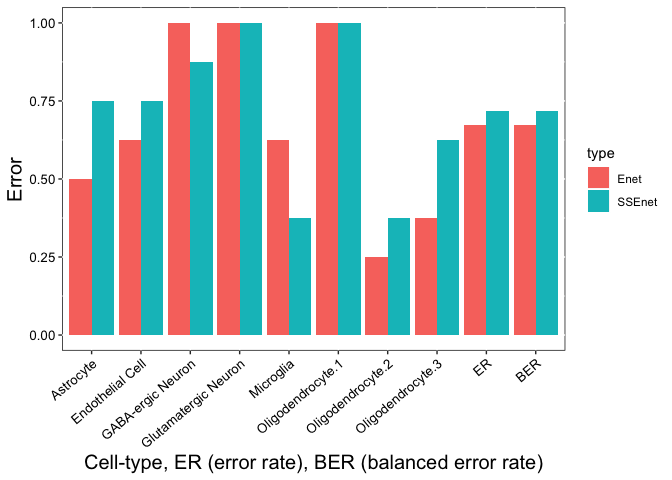
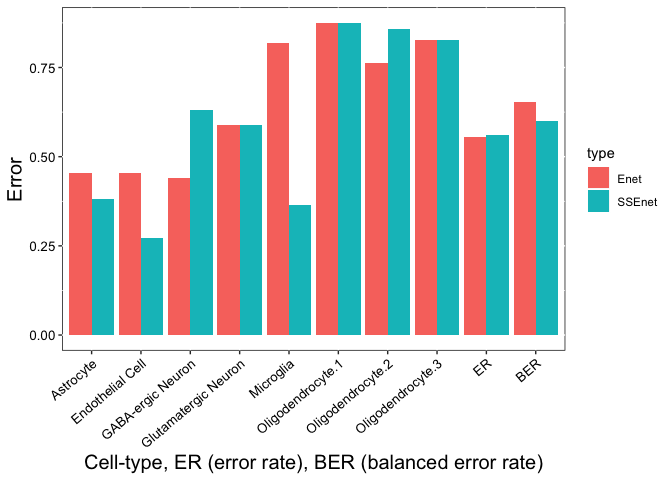
update README

diff --git a/README.md b/README.md
@@ -82,10 +82,20 @@ points(coord, col = mixOmics::color.mixo(as.numeric(seqfishLabels$V3)), pch = 19
 
 ``` r
 indices1 <- lapply(levels(scrnaseqLabels$V1), function(i){
-  which(as.character(scrnaseqLabels$V1) == i)[1:6]
+  comp <- which(as.character(scrnaseqLabels$V1) == i)
+  if(length(comp) > 100){
+    comp[1:100]
+  } else {
+    comp
+  }
 }) %>% unlist()
 indices2 <- lapply(levels(seqfishLabels$V3), function(i){
-  which(as.character(seqfishLabels$V3) == i)[1:8]
+  comp <- which(as.character(seqfishLabels$V3) == i)
+  if(length(comp) > 100){
+    comp[1:100]
+  } else {
+    comp
+  }
 }) %>% unlist()
 
 
@@ -96,18 +106,18 @@ cvEnet$perf
 ```
 
     ## # A tibble: 10 x 3
-    ##    ErrName                Mean     SD
-    ##    <chr>                 <dbl>  <dbl>
-    ##  1 Astrocyte            0      0     
-    ##  2 BER                  0.208  0.0295
-    ##  3 Endothelial Cell     0.25   0.118 
-    ##  4 ER                   0.208  0.0295
-    ##  5 GABA-ergic Neuron    0.25   0.118 
-    ##  6 Glutamatergic Neuron 0      0     
-    ##  7 Microglia            0      0     
-    ##  8 Oligodendrocyte.1    0.5    0     
-    ##  9 Oligodendrocyte.2    0.583  0.354 
-    ## 10 Oligodendrocyte.3    0.0833 0.118
+    ##    ErrName                Mean      SD
+    ##    <chr>                 <dbl>   <dbl>
+    ##  1 Astrocyte            0      0      
+    ##  2 BER                  0.209  0.00758
+    ##  3 Endothelial Cell     0.121  0.0244 
+    ##  4 ER                   0.0957 0.0182 
+    ##  5 GABA-ergic Neuron    0.06   0.0141 
+    ##  6 Glutamatergic Neuron 0.06   0.0566 
+    ##  7 Microglia            0      0      
+    ##  8 Oligodendrocyte.1    0.289  0.112  
+    ##  9 Oligodendrocyte.2    0.917  0.118  
+    ## 10 Oligodendrocyte.3    0.226  0
 
 ## Apply Semi-supervised Enet to scRNAseq+seqFISH data to determine cell-type labels
 
@@ -121,18 +131,18 @@ cvSSEnet$perf
 ```
 
     ## # A tibble: 10 x 3
-    ##    ErrName                Mean     SD
-    ##    <chr>                 <dbl>  <dbl>
-    ##  1 Astrocyte            0.0833 0.118 
-    ##  2 BER                  0.385  0.0147
-    ##  3 Endothelial Cell     0.583  0.118 
-    ##  4 ER                   0.385  0.0147
-    ##  5 GABA-ergic Neuron    0.583  0.118 
-    ##  6 Glutamatergic Neuron 0.25   0.354 
-    ##  7 Microglia            0.167  0.236 
-    ##  8 Oligodendrocyte.1    0.667  0     
-    ##  9 Oligodendrocyte.2    0.667  0     
-    ## 10 Oligodendrocyte.3    0.0833 0.118
+    ##    ErrName                Mean      SD
+    ##    <chr>                 <dbl>   <dbl>
+    ##  1 Astrocyte            0.0465 0.0658 
+    ##  2 BER                  0.203  0.00490
+    ##  3 Endothelial Cell     0.138  0      
+    ##  4 ER                   0.117  0      
+    ##  5 GABA-ergic Neuron    0.135  0.00707
+    ##  6 Glutamatergic Neuron 0.045  0.00707
+    ##  7 Microglia            0.0455 0.0643 
+    ##  8 Oligodendrocyte.1    0.237  0.112  
+    ##  9 Oligodendrocyte.2    0.75   0.118  
+    ## 10 Oligodendrocyte.3    0.226  0.0456
 
 ## Compare supervised and semi-supervised Enet (Enet and SSEnet) predicted seqFISH cell-types labels with those estimated via the multiclass SVM used in the paper.
 
@@ -181,25 +191,25 @@ cvErr %>%
 | ErrName              |      Mean |        SD | method |
 | :------------------- | --------: | --------: | :----- |
 | Astrocyte            | 0.0000000 | 0.0000000 | Enet   |
-| BER                  | 0.2083333 | 0.0294628 | Enet   |
-| Endothelial Cell     | 0.2500000 | 0.1178511 | Enet   |
-| ER                   | 0.2083333 | 0.0294628 | Enet   |
-| GABA-ergic Neuron    | 0.2500000 | 0.1178511 | Enet   |
-| Glutamatergic Neuron | 0.0000000 | 0.0000000 | Enet   |
+| BER                  | 0.2090796 | 0.0075758 | Enet   |
+| Endothelial Cell     | 0.1206897 | 0.0243830 | Enet   |
+| ER                   | 0.0957143 | 0.0181827 | Enet   |
+| GABA-ergic Neuron    | 0.0600000 | 0.0141421 | Enet   |
+| Glutamatergic Neuron | 0.0600000 | 0.0565685 | Enet   |
 | Microglia            | 0.0000000 | 0.0000000 | Enet   |
-| Oligodendrocyte.1    | 0.5000000 | 0.0000000 | Enet   |
-| Oligodendrocyte.2    | 0.5833333 | 0.3535534 | Enet   |
-| Oligodendrocyte.3    | 0.0833333 | 0.1178511 | Enet   |
-| Astrocyte            | 0.0833333 | 0.1178511 | SSEnet |
-| BER                  | 0.3854167 | 0.0147314 | SSEnet |
-| Endothelial Cell     | 0.5833333 | 0.1178511 | SSEnet |
-| ER                   | 0.3854167 | 0.0147314 | SSEnet |
-| GABA-ergic Neuron    | 0.5833333 | 0.1178511 | SSEnet |
-| Glutamatergic Neuron | 0.2500000 | 0.3535534 | SSEnet |
-| Microglia            | 0.1666667 | 0.2357023 | SSEnet |
-| Oligodendrocyte.1    | 0.6666667 | 0.0000000 | SSEnet |
-| Oligodendrocyte.2    | 0.6666667 | 0.0000000 | SSEnet |
-| Oligodendrocyte.3    | 0.0833333 | 0.1178511 | SSEnet |
+| Oligodendrocyte.1    | 0.2894737 | 0.1116484 | Enet   |
+| Oligodendrocyte.2    | 0.9166667 | 0.1178511 | Enet   |
+| Oligodendrocyte.3    | 0.2258065 | 0.0000000 | Enet   |
+| Astrocyte            | 0.0465116 | 0.0657774 | SSEnet |
+| BER                  | 0.2028182 | 0.0048969 | SSEnet |
+| Endothelial Cell     | 0.1379310 | 0.0000000 | SSEnet |
+| ER                   | 0.1171429 | 0.0000000 | SSEnet |
+| GABA-ergic Neuron    | 0.1350000 | 0.0070711 | SSEnet |
+| Glutamatergic Neuron | 0.0450000 | 0.0070711 | SSEnet |
+| Microglia            | 0.0454545 | 0.0642824 | SSEnet |
+| Oligodendrocyte.1    | 0.2368421 | 0.1116484 | SSEnet |
+| Oligodendrocyte.2    | 0.7500000 | 0.1178511 | SSEnet |
+| Oligodendrocyte.3    | 0.2258065 | 0.0456198 | SSEnet |
 
 > The semi-supervised approach performs slightly better for the lower
 > abundant cell-types.
